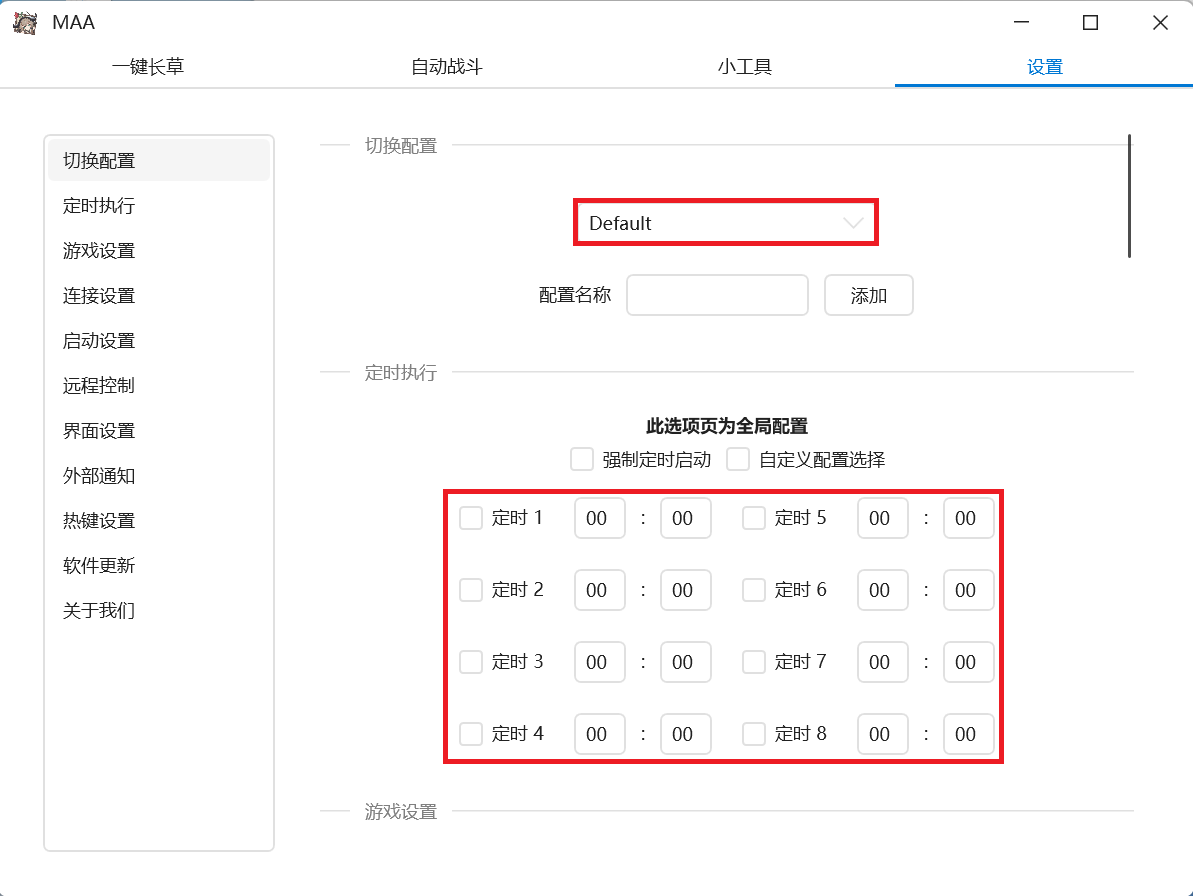
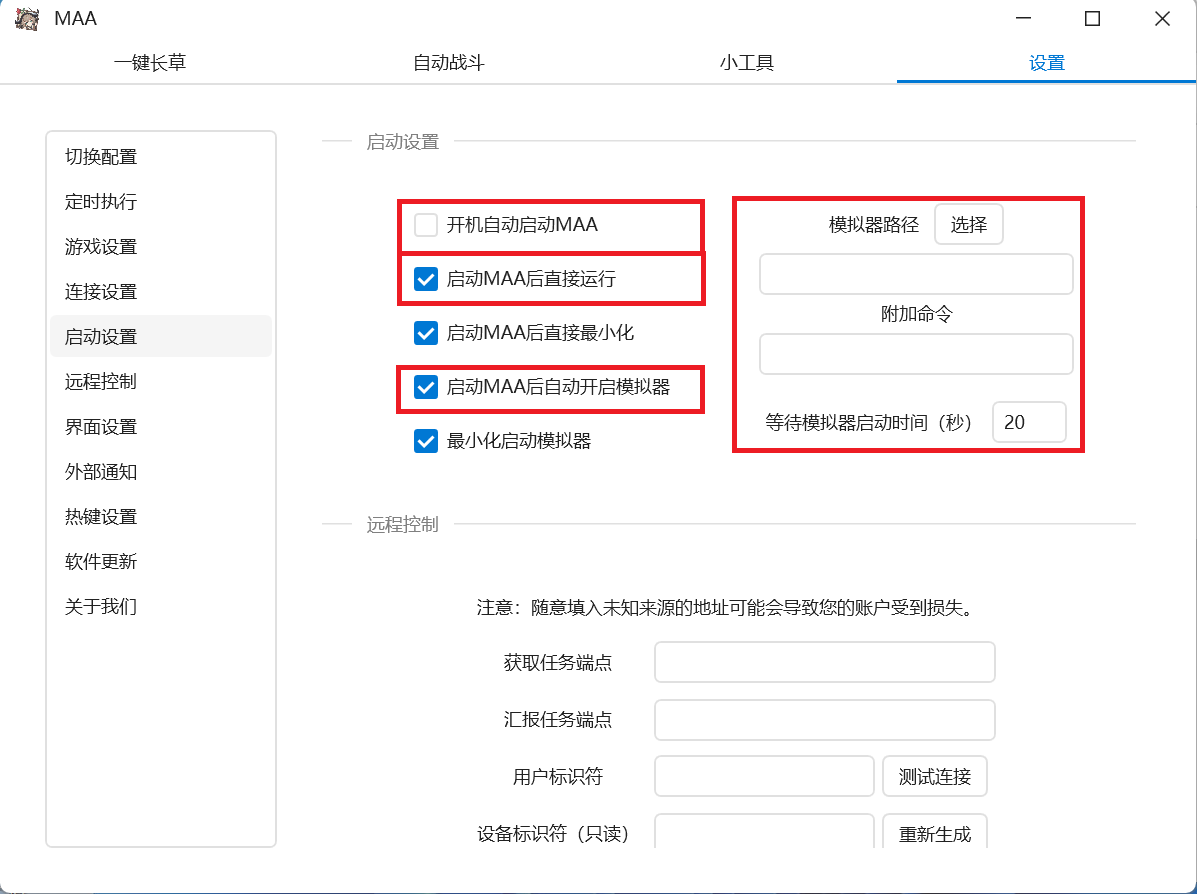
优化剿灭逻辑

diff --git a/run.py b/run.py
@@ -28,64 +28,123 @@ import time
 import json
 from termcolor import colored
 
-#执行MAA任务
-def runmaa(id,tel,game,num=3):
-    #配置MAA运行参数
+#配置MAA运行参数
+def setmaa(s,tel,game):
     with open(setpath,"r",encoding="utf-8") as f:
         data=json.load(f)
-    data["Configurations"]["Default"]["Start.AccountName"]=tel[:3]+"****"+tel[7:]
-    data["Configurations"]["Default"]["MainFunction.Stage1"]="Annihilation"
-    data["Configurations"]["Default"]["Fight.RemainingSanityStage"]=game
-    data["Configurations"]["Default"]["Fight.UseRemainingSanityStage"]="True"
-    data["Configurations"]["Default"]["GUI.CustomStageCode"]="True"
+    if s==0:
+        data["Configurations"]["Default"]["MainFunction.ActionAfterCompleted"]="ExitEmulatorAndSelf"        #完成后退出MAA和模拟器
+        data["Configurations"]["Default"]["Start.RunDirectly"]="True"       #启动MAA后直接运行
+        data["Configurations"]["Default"]["Start.StartEmulator"]="True"     #启动MAA后自动开启模拟器
+    elif s==1:
+        data["Configurations"]["Default"]["Start.AccountName"]=tel[:3]+"****"+tel[7:]       #账号切换
+        data["Configurations"]["Default"]["TaskQueue.WakeUp.IsChecked"]="True"        #开始唤醒
+        data["Configurations"]["Default"]["TaskQueue.Recruiting.IsChecked"]="False"        #自动公招
+        data["Configurations"]["Default"]["TaskQueue.Base.IsChecked"]="False"      #基建换班
+        data["Configurations"]["Default"]["TaskQueue.Combat.IsChecked"]="True"        #刷理智
+        data["Configurations"]["Default"]["TaskQueue.Mission.IsChecked"]="False"       #领取奖励
+        data["Configurations"]["Default"]["TaskQueue.Mall.IsChecked"]="False"       #获取信用及购物
+        data["Configurations"]["Default"]["MainFunction.Stage1"]="Annihilation"     #主关卡
+        data["Configurations"]["Default"]["MainFunction.Stage2"]=""     #备选关卡1
+        data["Configurations"]["Default"]["MainFunction.Stage3"]=""     #备选关卡2
+        data["Configurations"]["Default"]["Fight.RemainingSanityStage"]=""      #剩余理智关卡
+        data["Configurations"]["Default"]["Penguin.IsDrGrandet"]="False"     #博朗台模式
+        data["Configurations"]["Default"]["GUI.CustomStageCode"]="True"        #手动输入关卡名
+        data["Configurations"]["Default"]["GUI.UseAlternateStage"]="False"        #使用备选关卡
+        data["Configurations"]["Default"]["Fight.UseRemainingSanityStage"]="False"        #使用剩余理智
+        data["Configurations"]["Default"]["Fight.UseExpiringMedicine"]="True"        #无限吃48小时内过期的理智药
+    elif s==2:
+        data["Configurations"]["Default"]["Start.AccountName"]=tel[:3]+"****"+tel[7:]       #账号切换
+        data["Configurations"]["Default"]["TaskQueue.WakeUp.IsChecked"]="True"        #开始唤醒
+        data["Configurations"]["Default"]["TaskQueue.Recruiting.IsChecked"]="True"        #自动公招
+        data["Configurations"]["Default"]["TaskQueue.Base.IsChecked"]="True"      #基建换班
+        data["Configurations"]["Default"]["TaskQueue.Combat.IsChecked"]="True"        #刷理智
+        data["Configurations"]["Default"]["TaskQueue.Mission.IsChecked"]="True"       #领取奖励
+        data["Configurations"]["Default"]["TaskQueue.Mall.IsChecked"]="True"       #获取信用及购物
+        data["Configurations"]["Default"]["MainFunction.Stage1"]=game    #主关卡
+        data["Configurations"]["Default"]["MainFunction.Stage2"]=""     #备选关卡1
+        data["Configurations"]["Default"]["MainFunction.Stage3"]=""     #备选关卡2
+        data["Configurations"]["Default"]["Fight.RemainingSanityStage"]=""      #剩余理智关卡
+        data["Configurations"]["Default"]["Penguin.IsDrGrandet"]="False"     #博朗台模式
+        data["Configurations"]["Default"]["GUI.CustomStageCode"]="True"        #手动输入关卡名
+        data["Configurations"]["Default"]["GUI.UseAlternateStage"]="False"        #使用备选关卡
+        data["Configurations"]["Default"]["Fight.UseRemainingSanityStage"]="False"        #使用剩余理智
+        data["Configurations"]["Default"]["Fight.UseExpiringMedicine"]="True"        #无限吃48小时内过期的理智药
     with open(setpath,"w",encoding="utf-8") as f:
         json.dump(data,f)
+    return True
+
+#执行MAA任务
+def runmaa(id,tel,game,num=3):
     #开始运行
     for i in range(num):
         global idnew,idold,idfail,idall,logx,logi
-        #创建MAA任务
-        time.sleep(10)
-        maa=subprocess.Popen([maapath])
-        maapid=maa.pid
-        #等待MAA启动
-        idsuccess=idnew+idold
-        idwait=[idx for idx in idall if not idx in idsuccess+idfail+[id]]
-        os.system('cls')
-        if i==0:
-            print(colored("正在代理：",'white')+colored(id,'blue'))
-        else:
-            print(colored("正在代理：",'white')+colored(id,'light_blue'))
-        print(colored("等待代理：",'white')+colored('，'.join(idwait),'yellow'))
-        print(colored("代理成功：",'white')+colored('，'.join(idsuccess),'green'))
-        print(colored("代理失败：",'white')+colored('，'.join(idfail),'red'))
-        print(colored("运行日志：",'white')+colored("等待MAA初始化",'light_green'))
-        time.sleep(60)
-        #监测MAA运行状态
-        while True:
-            #打印基本信息
+        runbook=[False for i in range(2)]
+        for j in range(2):
+            #配置MAA
+            setmaa(j+1,tel,game)
+            #创建MAA任务
+            print(colored("等待中~",'yellow'))
+            time.sleep(10)
+            maa=subprocess.Popen([maapath])
+            maapid=maa.pid
+            #等待MAA启动
+            idsuccess=idnew+idold
+            idwait=[idx for idx in idall if not idx in idsuccess+idfail+[id]]
             os.system('cls')
             if i==0:
-                print(colored("正在代理：",'white')+colored(id,'blue'))
+                if j==0:
+                    print(colored("正在代理：",'white')+colored(id+"-剿灭",'blue'))
+                elif j==1:
+                    print(colored("正在代理：",'white')+colored(id+"-日常",'blue'))
             else:
-                print(colored("正在代理：",'white')+colored(id,'light_blue'))
+                if j==0:
+                    print(colored("正在代理：",'white')+colored(id+"-剿灭",'light_blue'))
+                elif j==1:
+                    print(colored("正在代理：",'white')+colored(id+"-日常",'light_blue'))
             print(colored("等待代理：",'white')+colored('，'.join(idwait),'yellow'))
             print(colored("代理成功：",'white')+colored('，'.join(idsuccess),'green'))
             print(colored("代理失败：",'white')+colored('，'.join(idfail),'red'))
-            print(colored("运行日志：",'white'))
-            #读取并保存MAA日志
-            with open(logpath,'r',encoding='utf-8') as f:
-                logs=f.readlines()[-1:-11:-1]
-                print(colored(''.join(logs[::-1]),'light_green'),end='')
-                log=''.join(logs)
-                logx[logi]=log
-                logi=(logi+1) % len(logx)
-            #判断MAA程序运行状态
-            if ("任务已全部完成！" in log):
-                return True
-            elif ("请检查连接设置或尝试重启模拟器与 ADB 或重启电脑" in log) or ("已停止" in log) or ("MaaAssistantArknights GUI exited" in log) or timeout():
-                os.system('taskkill /F /T /PID '+str(maapid))
-                break
-            time.sleep(10)
+            print(colored("运行日志：",'white')+colored("等待MAA初始化",'light_green'))
+            time.sleep(60)
+            #监测MAA运行状态
+            while True:
+                #打印基本信息
+                os.system('cls')
+                if i==0:
+                    if j==0:
+                        print(colored("正在代理：",'white')+colored(id+"-剿灭",'blue'))
+                    elif j==1:
+                        print(colored("正在代理：",'white')+colored(id+"-日常",'blue'))
+                else:
+                    if j==0:
+                        print(colored("正在代理：",'white')+colored(id+"-剿灭",'light_blue'))
+                    elif j==1:
+                        print(colored("正在代理：",'white')+colored(id+"-日常",'light_blue'))
+                print(colored("等待代理：",'white')+colored('，'.join(idwait),'yellow'))
+                print(colored("代理成功：",'white')+colored('，'.join(idsuccess),'green'))
+                print(colored("代理失败：",'white')+colored('，'.join(idfail),'red'))
+                print(colored("运行日志：",'white'))
+                #读取并保存MAA日志
+                with open(logpath,'r',encoding='utf-8') as f:
+                    logs=f.readlines()[-1:-11:-1]
+                    print(colored(''.join(logs[::-1]),'light_green'),end='')
+                    log=''.join(logs)
+                    logx[logi]=log
+                    logi=(logi+1) % len(logx)
+                #判断MAA程序运行状态
+                if ("任务已全部完成！" in log):
+                    runbook[j]=True
+                    break
+                elif ("请检查连接设置或尝试重启模拟器与 ADB 或重启电脑" in log) or ("已停止" in log) or ("MaaAssistantArknights GUI exited" in log) or timeout():
+                    os.system('taskkill /F /T /PID '+str(maapid))
+                    break
+                if j==0:
+                    time.sleep(40)
+                elif j==1:
+                    time.sleep(10)
+        if runbook[0] and runbook[1]:
+            return True
     return False
 
 #检查是否超时
@@ -149,6 +208,9 @@ idall=[data[i][0] for i in range(len(data))]
 LOGXLEN=60
 logx=['' for i in range(LOGXLEN)]
 logi=0
+#MAA预配置
+setmaa(0,0,0)
+#优先代理今日未完成的用户
 for i in range(len(data)):
     if data[i][3]=='y' and data[i][4]!=curdate and data[i][2]>0:
         book=runmaa(data[i][0],data[i][1],data[i][5])
@@ -157,6 +219,7 @@ for i in range(len(data)):
             idnew.append(data[i][0])
         else:
             idfail.append(data[i][0])
+#次优先重复代理
 for i in range(len(data)):
     if data[i][3]=='y' and data[i][4]==curdate and data[i][2]>0:
         book=runmaa(data[i][0],data[i][1],data[i][5])

diff --git a/README.md b/README.md
@@ -36,23 +36,19 @@ MAA下载地址    [GitHub下载](https://github.com/MaaAssistantArknights/MaaAs
 
 ### MAA配置
 
-1.完成MAA的adb配置等基本配置
+1. 完成MAA的adb配置等基本配置
 
-2.在“完成后”菜单，选择“退出MAA和模拟器”。勾选“手动输入关卡名”和“无限吃48小时内过期的理智药”
+2. 确保当前配置名为“Default”，取消所有“定时执行”
 
 ![MAA配置1](https://github.com/DLmaster361/AUTO_MAA/blob/main/res/README/MAA配置1.png "MAA配置1")
 
-3.确保当前配置名为“Default”，取消所有“定时执行”
+3. 取消勾选“开机自启动MAA”，勾选“启动MAA后直接运行”和“启动MAA后自动开启模拟器”。配置自己模拟器所在的位置并根据实际情况填写“等待模拟器启动时间”（建议预留10s以防意外）。如果是多开用户，需要填写“附加命令”，具体填写值参见多开模拟器对应快捷方式路径（如“-v 1”）。
 
 ![MAA配置2](https://github.com/DLmaster361/AUTO_MAA/blob/main/res/README/MAA配置2.png "MAA配置2")
 
-4.取消勾选“开机自启动MAA”，勾选“启动MAA后直接运行”和“启动MAA后自动开启模拟器”。配置自己模拟器所在的位置并根据实际情况填写“等待模拟器启动时间”（建议预留10s以防意外）。如果是多开用户，需要填写“附加命令”，具体填写值参见多开模拟器对应快捷方式路径（如“-v 1”）。
+4. 勾选“定时检查更新”、“自动下载更新包”和“自动安装更新包”
 
 ![MAA配置3](https://github.com/DLmaster361/AUTO_MAA/blob/main/res/README/MAA配置3.png "MAA配置3")
-
-5.勾选“定时检查更新”、“自动下载更新包”和“自动安装更新包”
-
-![MAA配置4](https://github.com/DLmaster361/AUTO_MAA/blob/main/res/README/MAA配置4.png "MAA配置4")
 
 ## 下载AUTO_MAA软件包 [![](https://img.shields.io/github/downloads/DLmaster361/AUTO_MAA/total?color=66ccff)](https://github.com/DLmaster361/AUTO_MAA/releases)
 
